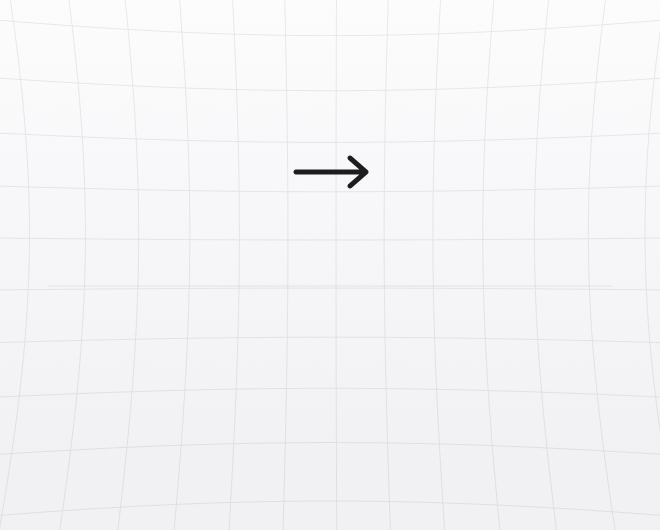
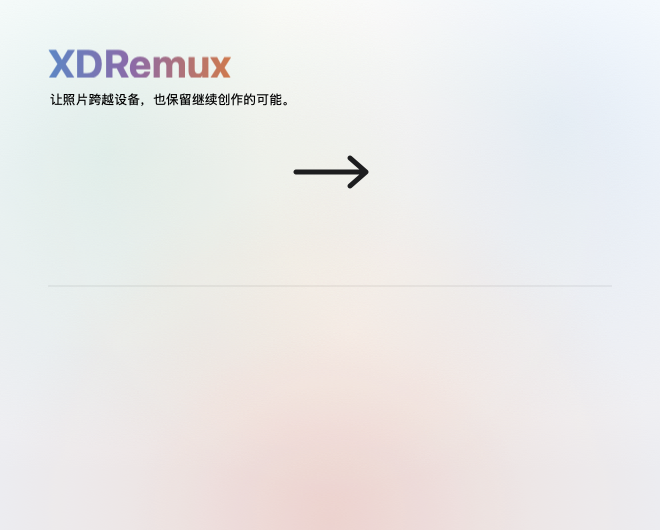
feat(macos): style the DMG after xdremux.app and link the site from the window

Changed region(s): [[0.3333, 0.7245, 0.697, 1.0], [0.0606, 0.0906, 0.4242, 0.2113]]

diff --git a/tools/apple/dmg/gen_background.swift b/tools/apple/dmg/gen_background.swift
@@ -4,19 +4,25 @@
 //   tools/apple/dmg/background.png     660x530  (1x)
 //   tools/apple/dmg/background@2x.png  1320x1060 (Retina)
 //
-// Light surface with a faint curved grid (the lines bow away from the
-// centre), an arrow between the app icon and the Applications link, and a
-// hairline above the row of smaller items (licence files, privacy shortcut).
+// Follows the light theme of xdremux.app: an off-white surface with soft
+// teal, blue and warm horizon glows, the "XDRemux" wordmark in the site's
+// blue-grey to purple to orange gradient with its tagline underneath, a dark
+// drag arrow between the app icon and the Applications link, and a hairline
+// above the row of smaller items (licence files, privacy shortcut).
+//
+// Deliberately light, not the site's black: Finder draws icon labels in the
+// system appearance's colour, which is near-black in light mode and would
+// vanish on a dark picture.
+//
 // The picture is drawn 470 points tall like the window's content area, plus
-// 60 points of plain grid underneath: Finder crops the picture at the bottom
-// of the content area, whose height depends on the title bar, and a little
-// spare pattern keeps that edge invisible on every macOS version.
+// 60 points of spare background underneath: Finder crops the picture at the
+// bottom of the content area, whose height depends on the title bar.
 // The window size and the icon positions live in settings.py; keep the
 // numbers here in step with them.
 //
 // Regenerate:  swift tools/apple/dmg/gen_background.swift
 
-import Foundation
+import AppKit
 import CoreGraphics
 import ImageIO
 import UniformTypeIdentifiers
@@ -26,29 +32,90 @@ let contentHeight = 470.0
 let height = contentHeight + 60.0
 
 // Icon centres from settings.py.
-let appX = 170.0, linkX = 490.0, heroY = 172.0
+let heroY = 172.0
 let dividerY = 286.0
-let arrowY = heroY
 
-// Bow the grid outward: zero at the centre, about 18% at the corners.
-func warp(_ x: Double, _ y: Double) -> (Double, Double) {
-    let nx = (x - width / 2) / (width / 2)
-    let ny = (y - contentHeight / 2) / (contentHeight / 2)
-    let f = 1.0 + 0.09 * (nx * nx + ny * ny)
-    return (width / 2 + (x - width / 2) * f, height / 2 + (y - height / 2) * f)
+// Site palette, light theme (xdremux.app CSS variables).
+let fg = "1d1d1f", fgDim = "6e6e73", teal = "0a8a76", blue = "0066cc"
+let warm1 = "ffe0b0", warm2 = "ff9a5c", warm3 = "d4577c"
+
+let sRGB = CGColorSpace(name: CGColorSpace.sRGB)!
+
+func color(_ hex: String, _ alpha: CGFloat = 1) -> CGColor {
+    let v = UInt32(hex, radix: 16)!
+    return CGColor(srgbRed: CGFloat((v >> 16) & 0xff) / 255, green: CGFloat((v >> 8) & 0xff) / 255,
+                   blue: CGFloat(v & 0xff) / 255, alpha: alpha)
 }
 
-func color(_ hex: UInt32, _ alpha: CGFloat = 1) -> CGColor {
-    CGColor(srgbRed: CGFloat((hex >> 16) & 0xff) / 255,
-            green: CGFloat((hex >> 8) & 0xff) / 255,
-            blue: CGFloat(hex & 0xff) / 255,
-            alpha: alpha)
+func glow(_ ctx: CGContext, center: CGPoint, radius: CGFloat, _ hex: String, alpha: CGFloat) {
+    let g = CGGradient(colorsSpace: sRGB, colors: [color(hex, alpha), color(hex, 0)] as CFArray,
+                       locations: [0, 1])!
+    ctx.drawRadialGradient(g, startCenter: center, startRadius: 0,
+                           endCenter: center, endRadius: radius, options: [])
+}
+
+func makeLine(_ string: String, size: CGFloat, weight: NSFont.Weight) -> CTLine {
+    let font = NSFont.systemFont(ofSize: size, weight: weight)
+    let ns = NSAttributedString(string: string, attributes: [.font: font])
+    return CTLineCreateWithAttributedString(ns as CFAttributedString)
+}
+
+/// Draw glyphs upright with their baseline at (x, y) in top-left coordinates.
+func drawGlyphs(_ ctx: CGContext, _ line: CTLine, x: CGFloat, y: CGFloat) {
+    ctx.saveGState()
+    ctx.translateBy(x: x, y: y)
+    ctx.scaleBy(x: 1, y: -1)   // undo the flipped context for CoreText
+    ctx.textMatrix = .identity
+    ctx.textPosition = .zero
+    CTLineDraw(line, ctx)
+    ctx.restoreGState()
+}
+
+/// One line of text in a solid colour.
+func text(_ ctx: CGContext, _ string: String, x: CGFloat, baseline y: CGFloat, size: CGFloat,
+          weight: NSFont.Weight = .regular, fill: CGColor) {
+    ctx.saveGState()
+    ctx.setFillColor(fill)
+    drawGlyphs(ctx, makeLine(string, size: size, weight: weight), x: x, y: y)
+    ctx.restoreGState()
+}
+
+/// One line of text filled with a horizontal gradient: the glyphs are drawn
+/// into an offscreen bitmap as a mask and the gradient is painted through
+/// them with sourceIn; the result is composited onto the background.
+func gradientText(_ ctx: CGContext, _ string: String, x: CGFloat, baseline y: CGFloat, size: CGFloat,
+                  weight: NSFont.Weight, stops: [String], at locations: [CGFloat]) {
+    let line = makeLine(string, size: size, weight: weight)
+    let bounds = CTLineGetBoundsWithOptions(line, .useOpticalBounds)
+    let pad: CGFloat = 8
+    let w = Int(ceil(bounds.width)) + 2 * Int(pad), h = Int(ceil(bounds.height)) + 2 * Int(pad)
+    guard let mask = CGContext(data: nil, width: w, height: h, bitsPerComponent: 8, bytesPerRow: 0,
+                               space: sRGB, bitmapInfo: CGImageAlphaInfo.premultipliedLast.rawValue)
+    else { return }
+    // The bitmap is y-up; the baseline sits pad above the bottom of the glyph box.
+    mask.setFillColor(.black)
+    mask.textMatrix = .identity
+    mask.textPosition = CGPoint(x: pad - bounds.minX, y: pad + bounds.minY)
+    CTLineDraw(line, mask)
+    mask.setBlendMode(.sourceIn)
+    let g = CGGradient(colorsSpace: sRGB, colors: stops.map { color($0) } as CFArray,
+                       locations: locations)!
+    mask.drawLinearGradient(g, start: CGPoint(x: pad, y: 0), end: CGPoint(x: pad + bounds.width, y: 0),
+                            options: [])
+    guard let image = mask.makeImage() else { return }
+    // The context is flipped (y down) and would mirror the bitmap, so undo
+    // the flip for this draw; the baseline lands on y.
+    let top = y + bounds.minY - CGFloat(h) + pad
+    ctx.saveGState()
+    ctx.translateBy(x: 0, y: top + CGFloat(h))
+    ctx.scaleBy(x: 1, y: -1)
+    ctx.draw(image, in: CGRect(x: x - pad, y: 0, width: CGFloat(w), height: CGFloat(h)))
+    ctx.restoreGState()
 }
 
 func render(scale: Int) -> CGImage? {
-    guard let space = CGColorSpace(name: CGColorSpace.sRGB),
-          let ctx = CGContext(data: nil, width: Int(width) * scale, height: Int(height) * scale,
-                              bitsPerComponent: 8, bytesPerRow: 0, space: space,
+    guard let ctx = CGContext(data: nil, width: Int(width) * scale, height: Int(height) * scale,
+                              bitsPerComponent: 8, bytesPerRow: 0, space: sRGB,
                               bitmapInfo: CGImageAlphaInfo.premultipliedLast.rawValue)
     else { return nil }
 
@@ -57,52 +124,42 @@ func render(scale: Int) -> CGImage? {
     ctx.translateBy(x: 0, y: CGFloat(height))
     ctx.scaleBy(x: 1, y: -1)
 
-    // Surface: almost white at the top, a touch cooler at the bottom.
-    let gradient = CGGradient(colorsSpace: space,
-                              colors: [color(0xfcfcfd), color(0xf1f1f4), color(0xf1f1f4)] as CFArray,
-                              locations: [0, 1, 1].map { CGFloat($0) * contentHeight / height })!
-    ctx.drawLinearGradient(gradient, start: CGPoint(x: 0, y: 0), end: CGPoint(x: 0, y: height), options: [])
+    // Off-white surface, a touch cooler towards the bottom like the site.
+    let k = contentHeight / height
+    let base = CGGradient(colorsSpace: sRGB,
+                          colors: [color("ffffff"), color("f5f5f7"), color("ececF0")] as CFArray,
+                          locations: [0, 0.6 * k, k])!
+    ctx.drawLinearGradient(base, start: CGPoint(x: 0, y: 0), end: CGPoint(x: 0, y: height), options: [])
 
-    // Curved grid.
-    ctx.setStrokeColor(color(0x000000, 0.075))
-    ctx.setLineWidth(1)
-    let step = 48.0, margin = 60.0, sample = 4.0
-    func samples(from start: Double, to end: Double) -> [Double] {
-        stride(from: start, through: end, by: sample).map { $0 }
-    }
-    for x in stride(from: step, to: width, by: step) {
-        ctx.move(to: CGPoint(x: x, y: -margin))
-        for y in samples(from: -margin, to: height + margin) {
-            let p = warp(x, y)
-            ctx.addLine(to: CGPoint(x: p.0, y: p.1))
-        }
-    }
-    for y in stride(from: step, to: height, by: step) {
-        ctx.move(to: CGPoint(x: -margin, y: y))
-        for x in samples(from: -margin, to: width + margin) {
-            let p = warp(x, y)
-            ctx.addLine(to: CGPoint(x: p.0, y: p.1))
-        }
-    }
-    ctx.strokePath()
+    // Glows: teal left, blue right, a warm horizon at the bottom centre.
+    glow(ctx, center: CGPoint(x: 110, y: 150), radius: 300, teal, alpha: 0.11)
+    glow(ctx, center: CGPoint(x: 560, y: 120), radius: 300, blue, alpha: 0.09)
+    glow(ctx, center: CGPoint(x: 330, y: contentHeight + 40), radius: 330, warm2, alpha: 0.17)
+    glow(ctx, center: CGPoint(x: 330, y: contentHeight + 60), radius: 200, warm3, alpha: 0.09)
+    glow(ctx, center: CGPoint(x: 330, y: 190), radius: 320, warm1, alpha: 0.16)
+
+    // Wordmark and tagline, top-left.
+    gradientText(ctx, "XDRemux", x: 48, baseline: 78, size: 40, weight: .bold,
+                 stops: ["5d86c4", "8b6aa8", "d07a4c"], at: [0, 0.45, 1])
+    text(ctx, "让照片跨越设备，也保留继续创作的可能。", x: 50, baseline: 104, size: 13, fill: color(fgDim))
 
     // Hairline between the drag row and the small print.
-    ctx.setStrokeColor(color(0x000000, 0.08))
+    ctx.setStrokeColor(color("000000", 0.10))
     ctx.setLineWidth(1)
     ctx.move(to: CGPoint(x: 48, y: dividerY))
     ctx.addLine(to: CGPoint(x: width - 48, y: dividerY))
     ctx.strokePath()
 
     // Drag arrow.
-    ctx.setStrokeColor(color(0x1d1d1f))
+    ctx.setStrokeColor(color(fg))
     ctx.setLineWidth(5)
     ctx.setLineCap(.round)
     ctx.setLineJoin(.round)
-    ctx.move(to: CGPoint(x: 296, y: arrowY))
-    ctx.addLine(to: CGPoint(x: 366, y: arrowY))
-    ctx.move(to: CGPoint(x: 350, y: arrowY - 14))
-    ctx.addLine(to: CGPoint(x: 366, y: arrowY))
-    ctx.addLine(to: CGPoint(x: 350, y: arrowY + 14))
+    ctx.move(to: CGPoint(x: 296, y: heroY))
+    ctx.addLine(to: CGPoint(x: 366, y: heroY))
+    ctx.move(to: CGPoint(x: 350, y: heroY - 14))
+    ctx.addLine(to: CGPoint(x: 366, y: heroY))
+    ctx.addLine(to: CGPoint(x: 350, y: heroY + 14))
     ctx.strokePath()
 
     return ctx.makeImage()

diff --git a/tools/apple/dmg/settings.py b/tools/apple/dmg/settings.py
@@ -5,16 +5,18 @@
 #   app    name of the .app bundle inside it
 #   icon   .icns used as the volume icon ("" for none)
 #   assets directory holding background.png / background@2x.png
-#   decorated  directory with copies of the .inetloc shortcuts that carry a
-#               custom Finder icon ("" to take them from the staging folder)
+#   decorated  directory with copies of the shortcuts that carry a custom
+#               Finder icon ("" to take them from the staging folder)
+#   links   directory with the website .webloc shown in the top-right corner
+#           ("" for none)
 #
 # Everything else in the staging directory (licence files, the Privacy &
 # Security shortcut) goes into a row along the bottom of the window.
 #
 # The window size and the icon centres are shared with gen_background.swift,
-# which draws the arrow between the app and the Applications link and the
-# hairline above the bottom row. Change both together and regenerate the
-# background.
+# which draws the wordmark, the arrow between the app and the Applications
+# link and the hairline above the bottom row. Change both together and
+# regenerate the background.
 
 import os
 
@@ -25,6 +27,9 @@ SMALL_Y = 340
 # Wide enough that the two-line labels of the licence files and the privacy
 # shortcut do not touch; tightened only when four or more items are staged.
 SMALL_SPACING = 200
+# Website link, under the top-right corner, clear of the hero row. Far
+# enough from the edge for its label, even when Finder shows extensions.
+LINK = (536, 58)
 
 # Finder's window bounds include the title bar, so the window is taller than
 # the picture. 32 is the title bar of a toolbar-less window on macOS 26; on
@@ -38,10 +43,15 @@ volume_icon = defines.get("icon") or None
 decorated = defines.get("decorated") or ""
 
 
-def source(name):
-    """Staged path for an item, preferring the icon-decorated copy."""
+links = defines.get("links") or ""
+
+
+def source(name, default_dir):
+    """Path for an item, preferring the icon-decorated copy."""
     copy = os.path.join(decorated, name)
-    return copy if decorated and os.path.isfile(copy) else os.path.join(stage, name)
+    if decorated and os.path.isfile(copy):
+        return copy
+    return os.path.join(default_dir, name)
 
 
 files = []
@@ -54,11 +64,18 @@ for name in sorted(os.listdir(stage)):
         extras.append(name)
         if name.endswith(".inetloc"):
             hide_extensions.append(name)
-    files.append((source(name), name))
+    files.append((source(name, stage), name))
 
 symlinks = {"Applications": "/Applications"}
 
 icon_locations = {app: (170, HERO_Y), "Applications": (490, HERO_Y)}
+if links and os.path.isdir(links):
+    for name in sorted(os.listdir(links)):
+        if name.startswith("."):
+            continue
+        files.append((source(name, links), name))
+        hide_extensions.append(name)
+        icon_locations[name] = LINK
 count = len(extras)
 spacing = SMALL_SPACING if count < 2 else min(SMALL_SPACING, (CONTENT[0] - 120) / (count - 1))
 for index, name in enumerate(extras):
